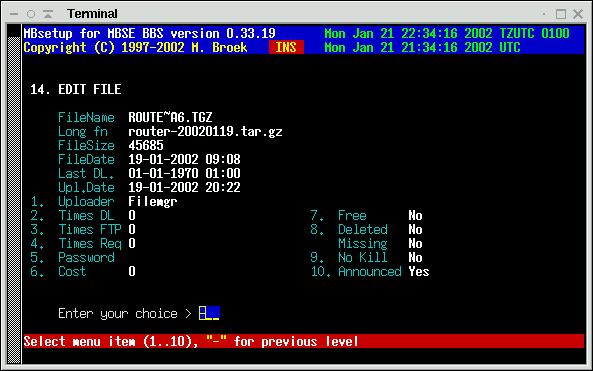
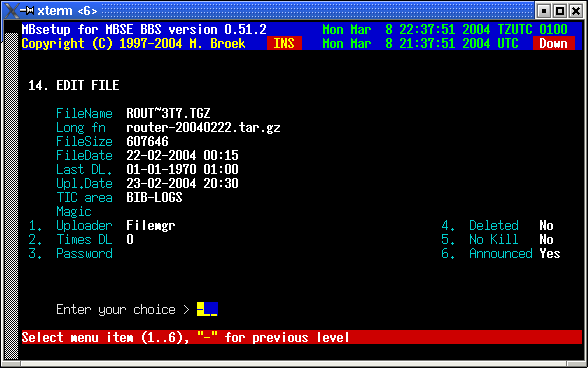
Updates for files changes

diff --git a/html/programs/mbfile.html b/html/programs/mbfile.html
@@ -14,7 +14,7 @@
 </HEAD>
 <BODY>
 <BLOCKQUOTE>
-<div align="right"><h5>Last update 08-Nov-2003</h5></div>
+<div align="right"><h5>Last update 08-Mar-2004</h5></div>
 <div align="center"><H1>mbfile - File database maintenance program.</H1></div>
 
 <H3>Synopsys.</H3>
@@ -70,8 +70,9 @@ file is removed. If the area is a CD-rom area, the check that files on disk
 must exist in the filedatabase is skipped.
 <P>
 
-<code><strong>mbfile</strong> delete &lt;area&gt; &lt;file&gt;</code>
-Mark a file in an area for later deletion. 
+<code><strong>mbfile</strong> delete &lt;area&gt; "&lt;filemask&gt;"</code>
+Mark file(s) in an area for later deletion. You can use wildcards, and if you do
+surround them with quotes to prevent shell expansion.
 The file is not removed until you run <strong>mbfile pack</strong>.
 <P>
 
@@ -136,15 +137,21 @@ you delete files with mbsetup or with mbfile, they are still in your database an
 until you run <strong>mbfile pack</strong>.
 <P>
 
+<code><strong>mbfile</strong> rearc &lt;area&gt; "&lt;filemask&gt;"</code>;
+Re-archive file(s) in an file area to the archiver that must be set in the
+<a href="../setup/files.html">file area setup</a>.
+<P>
+
 <code><strong>mbfile</strong> sort &lt;area&gt;</code>
 Sort the files in area on the long filenames. The sort is case insensitive. When
 the sort is completed, the command <strong>mbfile index</strong> will automatic
 run to rebuild all indexes.
 <P>
 
-<code><strong>mbfile</strong> undelete &lt;area&gt; &lt;file&gt;</code>
+<code><strong>mbfile</strong> undelete &lt;area&gt; "&lt;filemask&gt;"</code>
 Mark a file that is marked for deletion to be available again, ie. undo the deletion
-mark.
+mark. You can use wildcards, and if you do
+surround them with quotes to prevent shell expansion.
 <P>&nbsp;<P>
 
 <H3>Options.</H3>

diff --git a/html/setup/fegroup.html b/html/setup/fegroup.html
@@ -14,7 +14,7 @@
 </HEAD>
 <BODY>
 <BLOCKQUOTE>
-<div align="right"><h5>Last update 30-Sep-2002</h5></div>
+<div align="right"><h5>Last update 08-Mar-2003</h5></div>
 <div align="center"><H1>MBSE BBS Setup - File Echo's Setup - File Groups.</H1></div>
 
 <H3>Introduction.</H3>
@@ -32,16 +32,6 @@ one area file for all distribution groups. You must then create a file group for
 each distribution group, ie. Fidonet, SDS etc. The name of that group must
 exactly match the comment field in the group in this setup.
 <P>&nbsp;<p>
-
-<h3>Cost Sharing.</H3>
-<P>
-With the setup of groups you can also specify the Cost Sharing for the
-files distribution. The unit cost is the cost for each transmitted file
-if the unit size field is zero, or the unit price per transmitted unit size.
-The final cost is multiplied with the "Add Prom." factor to add taxes or so.
-Also if your uplink sends advanced .tic files, the cost found in that .tic
-file will be added to the cost as well. Further you can set the final price
-to divide between your downlinks or let them all pay the full price.
 
 <H3>File Group Setup.</H3>
 <P>
@@ -61,10 +51,6 @@ to divide between your downlinks or let them all pay the full price.
 <strong>Active    </strong>If this group is active.
 <strong>Deleted   </strong>If this group must be deleted.
 <strong>Start at  </strong>New created areas must start at area nr.
-<strong>Unit Cost </strong>The cost per unit.
-<strong>Unit Size </strong>The size in Kbytes per unit.
-<strong>Add Prom. </strong>The prommilage to add to the cost.
-<strong>Divide    </strong>Divide cost over downlinks.
 <strong>Auto chng </strong>Auto change when running <b>mbfido areas</b>
 <strong>User chng </strong>Auto create areas on downlinks requests.
 <strong>Replace   </strong>Set replace option in new areas.

diff --git a/html/setup/nodes.html b/html/setup/nodes.html
@@ -14,7 +14,7 @@
 </HEAD>
 <BODY>
 <BLOCKQUOTE>
-<div align=right><h5>Last update 08-Jan-2004</h5></div>
+<div align=right><h5>Last update 08-Mar-2004</h5></div>
 <div align=center><H1>MBSE BBS Setup - Fidonet nodes.</H1></div>
 <P>
 
@@ -194,20 +194,6 @@ the ticfile. Some braindead systems will forward this line instead of processing
 it and then the next system in the line will fail.</td></tr>
 <tr><th nowrap align=left valign=top>File forward</th><td>Forward TIC files for
 this node (not yet).</td></tr>
-<tr><th nowrap align=left valign=top>Billing</th><td>Is Costsharing active for
-this node.</td></tr>
-<tr><th nowrap align=left valign=top>Bill direct</th><td>Send the bill direct or
-on command (billing is not yet available).</td></tr>
-<tr><th nowrap align=left valign=top>Credit</th><td>The credit this node has in
-units.</td></tr>
-<tr><th nowrap align=left valign=top>Debit</th><td>The debit we have with this
-node (informational).</td></tr>
-<tr><th nowrap align=left valign=top>Add</th><td>Add (or substract) factor to
-the bill.</td></tr>
-<tr><th nowrap align=left valign=top>Warn level</th><td>The debit level when to
-write a warning mesage.</td></tr>
-<tr><th nowrap align=left valign=top>Stop level</th><td>The debit level when to
-stop sending files.</td></tr>
 </table>
 <P>
 <IMG SRC="../images/nodes6.png" alt='Nodes files setup'>

diff --git a/html/setup/fdb.html b/html/setup/fdb.html
@@ -14,7 +14,7 @@
 </HEAD>
 <BODY>
 <BLOCKQUOTE>
-<div align='right'><h5>Last update 21-Jan-2002</h5></div>
+<div align='right'><h5>Last update 08-Mar-2004</h5></div>
 <div align='center'><H1>MBSE BBS Setup - Files Database.</H1></div>
 
 <H3>Introduction.</H3>
@@ -33,15 +33,12 @@ will be when I have the time. The basic file entries can't be changed.
 <strong>FileDate  </strong>The real date of the file.
 <strong>Last DL.  </strong>The date of the last download of the file.
 <strong>Upl.Date  </strong>The upload date.
+<strong>TIC Area  </strong>The name of the tic area the file was received in.
+<strong>Magic     </strong>The magic name to download/freq this file.
 <strong>Uploader  </strong>The name of the uploader.
 <strong>Times DL  </strong>The number of times downloaded from the BBS.
-<strong>Times FTP </strong>Not in use yet.
-<strong>Times Req </strong>The number of times requested by mailer.
 <strong>Password  </strong>The password to access this file.
-<strong>Cost      </strong>Not in use yet.
-<strong>Free      </strong>If this file is free for download.
 <strong>Deleted   </strong>If this file should be deleted.
-<strong>Missing   </strong>If this file is missing on disk.
 <strong>No Kill   </strong>Don't delete this file with <strong>mbfile</strong>
 <strong>Announced </strong>If this file is ever announced as new.
 </pre>

diff --git a/html/setup/files.html b/html/setup/files.html
@@ -14,7 +14,7 @@
 </HEAD>
 <BODY>
 <BLOCKQUOTE>
-<div align='right'><h5>Last update 18-Feb-2002</h5></div>
+<div align='right'><h5>Last update 08-Mar-2004</h5></div>
 <div align='center'><H1>MBSE BBS Setup - BBS Setup - File Areas.</H1></div>
 
 <H3>File Areas introduction.</H3>
@@ -63,7 +63,6 @@ moved to the new location.
 <strong>DL days    </strong>How long must a file not been downloaded to (re)move it.
 <strong>FD days    </strong>How old must a file be to be (re)moved.
 <strong>Move area  </strong>The area to move the file to, if zero it is deleted.
-<strong>Cost       </strong>The cost in units to download from this area.
 <strong>Archiver   </strong>The archiver to use to repack the files with.
 <strong>Upload     </strong>Alternate upload area. If a user uploads a file in this
            area, it will be placed in the alternate area. If the

diff --git a/mbfido/mbfrearc.c b/mbfido/mbfrearc.c
@@ -48,7 +48,7 @@ void ReArc(int Area, char *File)
 {
     char	    *p, *temp, *linkpath, mask[256];
     FILE	    *fp;
-    int		    i, rc = -1;
+    int		    i, rc = -1, count = 0, errors = 0;
     struct utimbuf  ut;
 
     IsDoing("ReArc file(s)");
@@ -98,7 +98,8 @@ void ReArc(int Area, char *File)
 	if (re_exec(fdb.LName) || re_exec(fdb.Name)) {
 	    Syslog('+', "Will rearc %s", fdb.LName);
 	    sprintf(temp, "%s/%s", area.Path, fdb.Name);
-	    
+	    count++;
+
 	    rc = rearc(temp, area.Archiver, do_quiet);
 	    if (rc == 0) {
 		/*
@@ -106,7 +107,7 @@ void ReArc(int Area, char *File)
 		 */
     		if (!do_quiet) {
 		    colour(9, 0);
-		    printf("\r   Update file %s", temp);
+		    printf("\r   Update file %s   ", temp);
 		    fflush(stdout);
 		}
 
@@ -177,12 +178,13 @@ void ReArc(int Area, char *File)
 		symlink(temp, linkpath);
 		free(linkpath);
 	    } else {
+		errors++;
 		break; // stop when something goes wrong
 	    }
 	    if (!do_quiet) {
 		colour(7, 0);
 		printf("\r");
-		for (i = 0; i < (strlen(temp) + 17); i++)
+		for (i = 0; i < (strlen(temp) + 20); i++)
 		    printf(" ");
 		printf("\r");
 		fflush(stdout);
@@ -191,6 +193,7 @@ void ReArc(int Area, char *File)
     }
     fclose(fp);
     free(temp);
+    Syslog('+', "ReArc Files [%5d]  Good [%5d]  Errors [%5d]", count, count - errors, errors);
 }
 
 

diff --git a/mbfido/mbfutil.c b/mbfido/mbfutil.c
@@ -114,17 +114,17 @@ void Help(void)
     colour(CYAN, BLACK);
     printf("	a  adopt <area> <file> [desc]	Adopt file to area\n");
     printf("	c  check			Check filebase\n");
-    printf("	d  delete <area> <filemask>	Mark file(s) in area for deletion\n");
+    printf("	d  delete <area> \"<filemask>\"	Mark file(s) in area for deletion\n");
     printf("	im import <area>		Import files in current dir to area\n");
     printf("	in index			Create filerequest index\n");
     printf("	k  kill				Kill/move old files\n");
     printf("	l  list	[area]			List file areas or one area\n");
     printf("	m  move <from> <to> <file>	Move file from to area\n");
     printf("	p  pack				Pack filebase\n");
-    printf("	r  rearc <area> <filemask>	Rearc file(s) in area to area archive type\n");
+    printf("	r  rearc <area> \"<filemask>\"	Rearc file(s) in area to area archive type\n");
     printf("	s  sort <area>			Sort files in a file area\n");
     printf("	t  toberep			Show toberep database\n");
-    printf("	u  undelete <area> <filemask>	Mark file(s) in area for undeletion\n");
+    printf("	u  undelete <area> \"<filemask>\"	Mark file(s) in area for undeletion\n");
     colour(LIGHTBLUE, BLACK);
     printf("\n	Options are:\n\n");
     colour(CYAN, BLACK);

diff --git a/lib/rearc.c b/lib/rearc.c
@@ -45,7 +45,7 @@ int rearc(char *filename, char *arctype, int do_quiet)
 
     if (!do_quiet) {
         colour(12, 0);
-        printf("    ReArc file %s", filename);
+        printf("    ReArc file %s   ", filename);
 	fflush(stdout);
     }
 
@@ -146,7 +146,7 @@ int rearc(char *filename, char *arctype, int do_quiet)
 
     if (!do_quiet) {
 	colour(11, 0);
-	printf("\rUnpacking file %s", filename);
+	printf("\rUnpacking file %s   ", filename);
 	fflush(stdout);
     }
 
@@ -166,7 +166,7 @@ int rearc(char *filename, char *arctype, int do_quiet)
 
     if (!do_quiet) {
 	colour(10, 0);
-	printf("\r  Packing file %s", filename);
+	printf("\r  Packing file %s   ", newname);
     }
 
     /*
